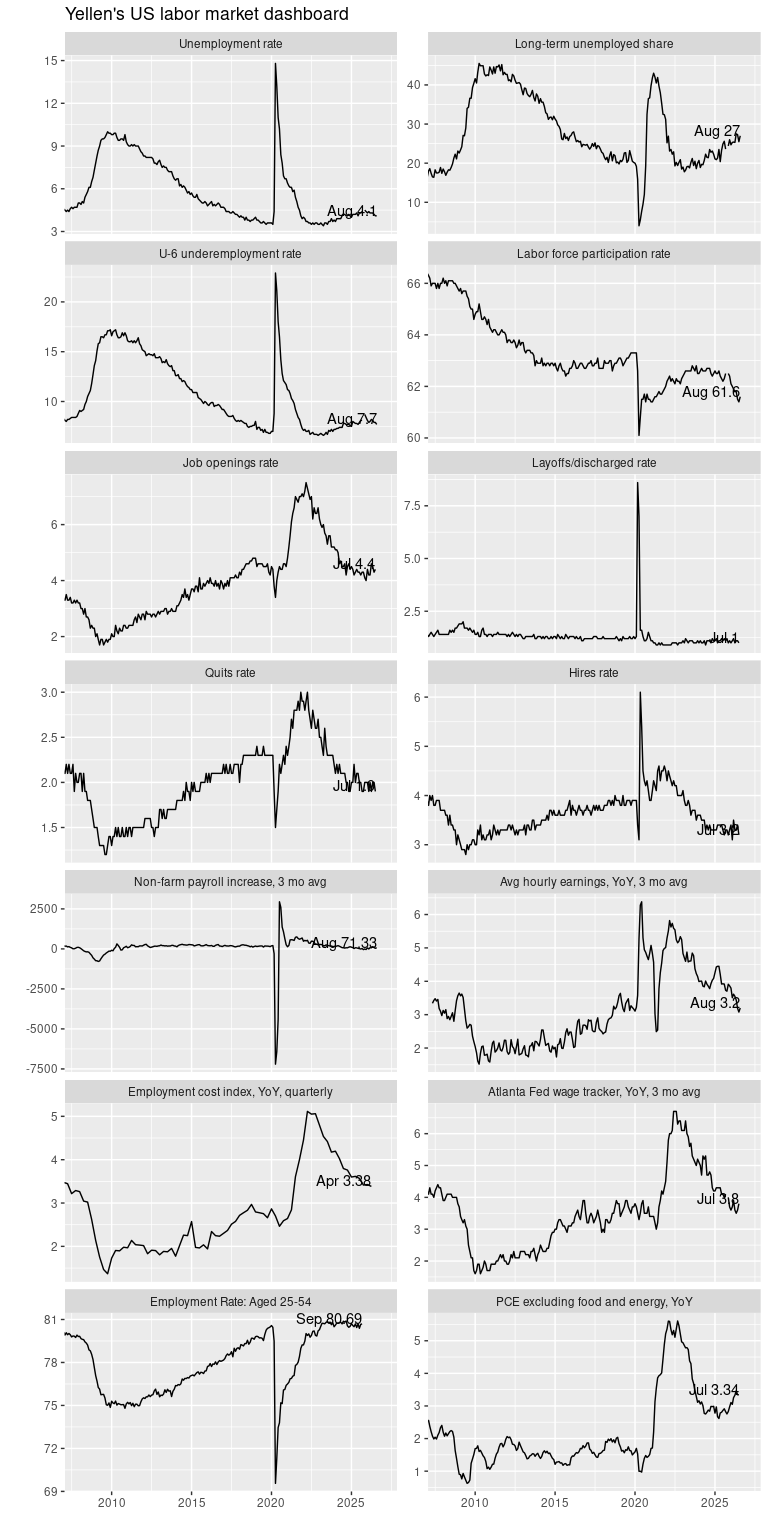
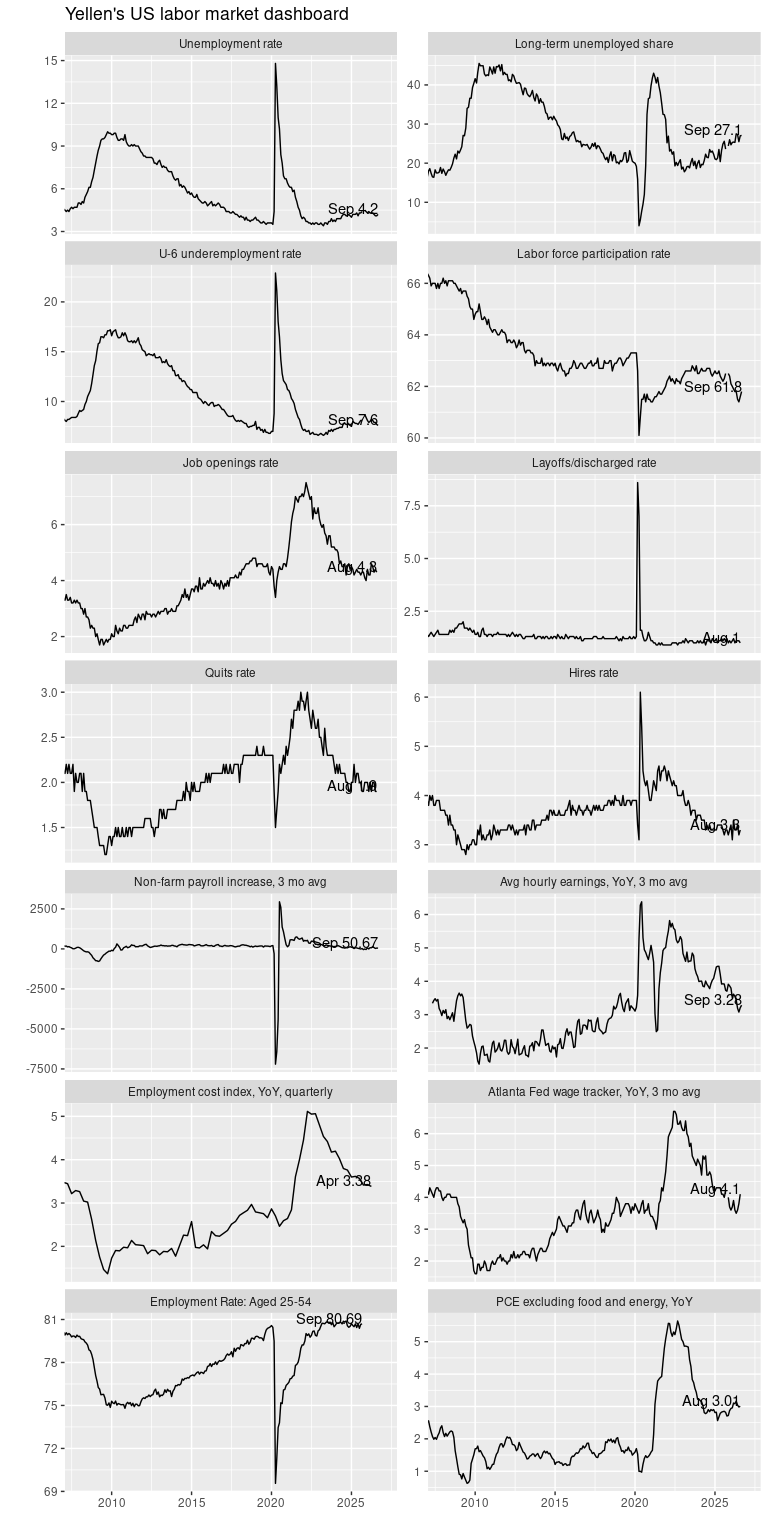
update September 2026 employment

diff --git a/README.md b/README.md
@@ -14,7 +14,7 @@ Mitsuo Shiota
 - [Prepare for the plot](#prepare-for-the-plot)
 - [Dashboard](#dashboard)
 
-Updated: 2026-09-05
+Updated: 2026-10-03
 
 ## Summary
 
